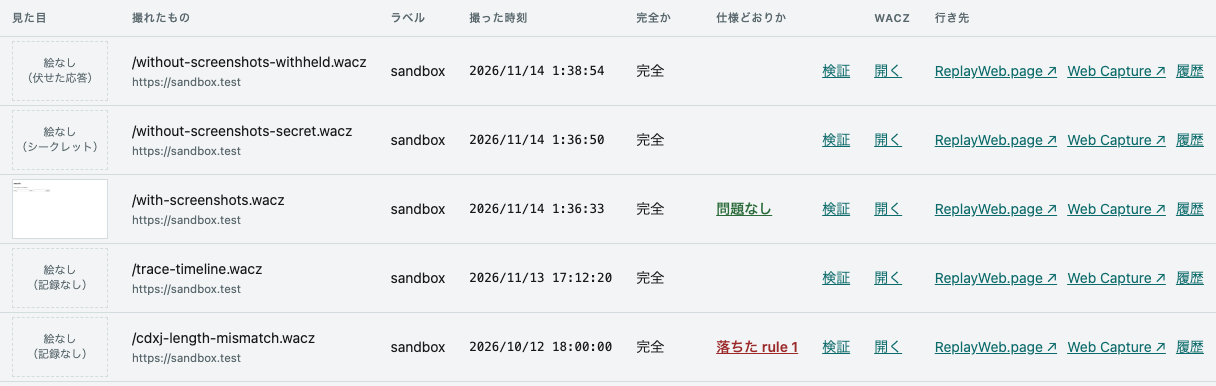
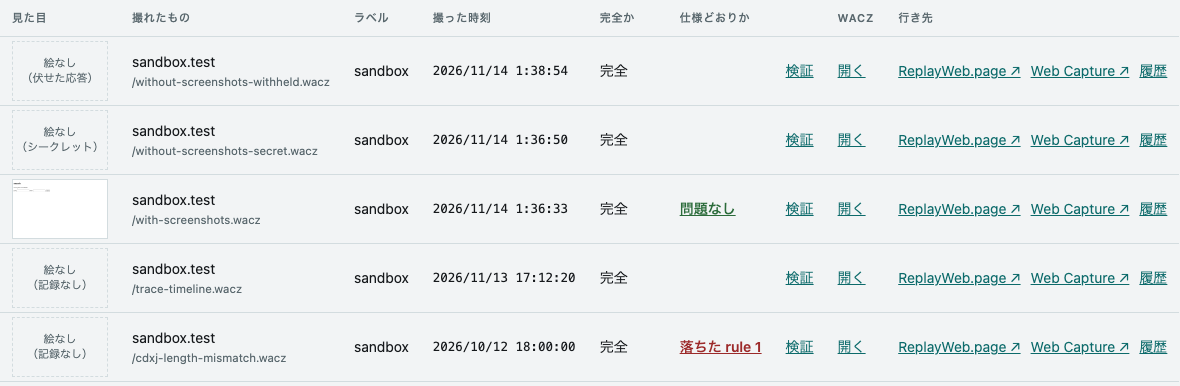
feat: 一覧の URL は上にサイト（ホスト）、下に path を出す（t-ub5w） (#136)
* feat: 一覧の URL は上にサイト（ホスト）、下に path を出す（t-ub5w）

クロールの一覧の「起点」とアーカイブの一覧の「撮れたもの」は、上の行に path、下の行に origin を
小さく薄く出していて、どのサイトのクロールかが目に入りにくかった。

- 一覧の 2 行の上下を入れ替える。上の行はホスト（port が在れば port も）、下の行は path と query を
  小さく薄く（public/format.js の siteLinesOf）。scheme は出さない（全文は今までどおり title）。
  path が / だけなら、ホストだけの 1 行。ホストの字は直さない。
- クロールの開いた行の「ページ」の表は、path が上のまま（ページはたいてい起点と同じサイト）。
  urlBox が分け方を受け取り、既定は今までの urlLinesOf。
- CAPTURE-404 の「同じ長い origin でも path が読める」は崩さない。path は下の行に 1 行を持つ。
- docs の「画面」（英日）の文と、絵 2 枚（crawls・archives）を撮り直した。

Claude-Session: https://claude.ai/code/session_01TRqfaPSPMpBYHNLkiwEhaY

* fix: 開いた行のページの表の説明を、一覧と上下が逆の 2 行に合わせ、userinfo の例を試験に足す（t-ub5w）

Claude-Session: https://claude.ai/code/session_01TRqfaPSPMpBYHNLkiwEhaY

* docs: 絵の元の控えを撮り直す（コメントの直しで source が変わった。絵の画素は同じ）（t-ub5w）

Claude-Session: https://claude.ai/code/session_01TRqfaPSPMpBYHNLkiwEhaY

---------

diff --git a/public/app.js b/public/app.js
@@ -10,7 +10,7 @@
  * `outerHTML` のようなほかの API は見ない。
  */
 import { applyI18n, dateTime, errorText, key, langOf, phraseText, refusalTexts, switchLang, t, timeOfDay, tNodes } from "/i18n.js";
-import { count, forgetMissing, judgedUnder, linksNoteOf, linksOf, resendOf, secretArchiveOf, severityKind, stateOf, statsOf, took, urlLinesOf } from "/format.js";
+import { count, forgetMissing, judgedUnder, linksNoteOf, linksOf, resendOf, secretArchiveOf, severityKind, siteLinesOf, stateOf, statsOf, took, urlLinesOf } from "/format.js";
 import {
   DEFAULT_PROFILE,
   PROFILES,
@@ -338,11 +338,12 @@ const tag = (name, text, className) => {
 const cell = (text, className) => tag("td", text, className);
 
 /**
- * URL の 2 行の箱（CAPTURE-404）。上の行に path と query、下の行に origin を小さく（`urlLinesOf`）。2 本目からは出さず、
- * 上の行の後ろに数だけを出す。一覧の URL の欄（`urlCell`）と、開いた行のページの表の URL の欄が使う。
+ * URL の 2 行の箱（CAPTURE-404）。上の行を普通の字、下の行を小さく。分け方は `linesOf` で、既定は上に path と query・
+ * 下に origin（`urlLinesOf`。開いた行のページの表 —— ページはたいてい起点と同じサイト）。一覧の URL の欄（`urlCell`）は、
+ * 上にホスト・下に path（`siteLinesOf`。t-ub5w）。2 本目からは出さず、上の行の後ろに数だけを出す。
  */
-const urlBox = (urls) => {
-  const lines = urlLinesOf(urls[0] ?? "");
+const urlBox = (urls, linesOf = urlLinesOf) => {
+  const lines = linesOf(urls[0] ?? "");
   const box = tag("span", "", "url-box");
   const first = tag("span", "", "url-line");
   first.append(tag("span", lines.top, "url-top"));
@@ -352,10 +353,10 @@ const urlBox = (urls) => {
   return box;
 };
 
-/** URL の欄（一覧の 2 行）。全文は title に（`urls` が 2 本以上なら全部を行で）。 */
+/** URL の欄（一覧の 2 行。上がホスト、下が path）。全文は title に（`urls` が 2 本以上なら全部を行で）。 */
 const urlCell = (urls, className) => {
   const td = tag("td", "", className === undefined ? "url" : `url ${className}`);
-  td.append(urlBox(urls));
+  td.append(urlBox(urls, siteLinesOf));
   td.title = urls.join("\n");
   return td;
 };
@@ -918,7 +919,8 @@ const restoreScroll = () => {
  * （本文の幅）に収まらなかった（2026-11-05 に測った）。同じ理由で、途中の版でも字は増やさず、色と説明だけを付ける。
  *
  * 撮った時の絵（capture-ledger の行の `screenshot`。CAPTURE-432）も列を足さず、URL の欄の中の左に出す。URL はその右で、
- * 一覧と同じ 2 行にする（1 行のままでは、絵の分だけ表が docs の絵の幅を超えた）。
+ * 2 行にする（1 行のままでは、絵の分だけ表が docs の絵の幅を超えた）。上下は一覧と逆で、上が path と query、下が origin
+ * （ページはたいてい起点と同じサイト。t-ub5w）。
  */
 const pagesOf = (one) => {
   const box = document.createElement("div");
@@ -950,7 +952,8 @@ const pagesOf = (one) => {
   table.append(head);
   for (const { page, log, look } of rows) {
     const row = document.createElement("tr");
-    // URL は一覧と同じ 2 行（上が path と query、下が origin）。1 行のままでは表が docs の絵の幅（632px）を超える
+    // URL は 2 行で、上下は一覧と逆（上が path と query、下が origin。ページはたいてい起点と同じサイト）。1 行のままでは
+    // 表が docs の絵の幅（632px）を超える
     const url = tag("td", "", "page-url");
     url.title = String(page.url);
     const line = tag("span", "", "page-line");

diff --git a/public/format.js b/public/format.js
@@ -188,3 +188,19 @@ export const urlLinesOf = (text) => {
   if (shape === null || shape[2] === "" || shape[2] === "/") return { top: text, bottom: undefined };
   return { top: shape[2], bottom: shape[1] };
 };
+
+/**
+ * URL を、一覧（クロールの起点・アーカイブの撮れたもの）の欄の 2 行に分ける（t-ub5w）。上の行（`top`）はどのサイトかを
+ * 言うホスト（port が在れば port も）、下の行（`bottom`）は path と query。`urlLinesOf` の上下を入れ替え、**scheme を
+ * 出さない** —— 毎行同じ `https://` が、目立たせたいホストを後ろへ押すため（全文は欄の title）。ホストの字は直さない。
+ *
+ * CAPTURE-404 で path を上にしたのは、同じ長い origin の起点で path が 0 字になったから。ここでも path は下の行に
+ * 1 行を持つので、0 字には戻らない。path が無いか `/` だけの URL は、ホストだけの 1 行。URL の形でない字と、
+ * ホストの無い URL（`file:///…`）は、そのまま上の行。
+ */
+export const siteLinesOf = (text) => {
+  const shape = URL_SHAPE.exec(text);
+  const host = shape === null ? "" : shape[1].slice(shape[1].indexOf("://") + 3);
+  if (host === "") return { top: text, bottom: undefined };
+  return { top: host, bottom: shape[2] === "" || shape[2] === "/" ? undefined : shape[2] };
+};

diff --git a/public/app.css b/public/app.css
@@ -172,7 +172,8 @@ td.wide {
 }
 
 /*
- * URL の欄（一覧の 2 行。CAPTURE-404）。上の行は path と query、下の行は origin を小さく薄く。幅の上限は td でなく
+ * URL の 2 行の箱（CAPTURE-404）。上の行は普通の字、下の行は小さく薄く。一覧（起点・撮れたもの）は上がホスト・下が
+ * path と query、開いた行のページの表は上が path と query・下が origin（t-ub5w。app.js の urlBox）。幅の上限は td でなく
  * 中の箱に付ける（表のセルの max-width は CSS 2.1 で未定義）。入らない字は、行ごとに末尾を省く（全文は td の title）
  */
 .url-box {

diff --git a/docs-site/src/content/docs/screens.md b/docs-site/src/content/docs/screens.md
@@ -63,11 +63,11 @@ the crawl's bundle.
   rows on screen come from two or more origins, and they narrow only the one page on screen. `cli`
   holds both the rows a person started with the local `idp:token` and the rows an AI agent started as
   the dedicated user `ai-cli`; tell them apart by name.
-- **The seed URL takes two lines.** The top line is the path and query, and the bottom line, in
-  smaller type, is the origin (scheme, host and port); the two together are the URL. A seed whose
-  path is only `/` (such as `https://laws.e-gov.go.jp/`) is told apart by its host, so it shows the
-  whole URL on one line. A line that does not fit ends in "…"; hover over the cell to read the whole
-  URL. A crawl with more than one seed shows the first one followed by how many more there are
+- **The seed URL takes two lines, the site first.** The top line is the host (with the port, if
+  any), so you can tell at a glance which site a crawl is for; the bottom line, in smaller type, is
+  the path and query. The scheme (`https://`) is not shown. A seed whose path is only `/` (such as
+  `https://laws.e-gov.go.jp/`) shows just the host on one line. A line that does not fit ends in
+  "…"; hover over the cell to read the whole URL. A crawl with more than one seed shows the first one followed by how many more there are
   (such as `+5`), and hovering lists every seed, one per line.
 - **Pages captured and links are separate columns.** The links column (`pagesDiscovered`) is the
   number of distinct URLs the rules let through among the links on the captured pages (seeds are
@@ -204,8 +204,9 @@ the crawl's bundle.
   **Read on** when there is more. A ledger without the pages route gets a one-line note.
 - **The URL cell starts with the picture as captured.** It is the same picture or dashed box as
   **Look** (見た目) in the [archives view](#archives), from the `screenshot` of the ledger's page row.
-  The URL follows on the right in the same two lines as a crawl's seed (the path and query on top,
-  the origin below), and the top line wraps instead of being cut. Hover over the cell to read the
+  The URL follows on the right in two lines, but the other way round from a crawl's seed: the path
+  and query on top, the origin below, since a crawl's pages are mostly on the seed's site. The top
+  line wraps instead of being cut. Hover over the cell to read the
   whole URL. A page without a WACZ (not captured yet, failed, or skipped) gets no box, only the
   space for one. When the ledger does not return the field (before v0.107.0), there is no space
   for the picture at all. The picture sits inside the URL cell rather than in a column of its own:
@@ -843,7 +844,7 @@ The WACZ files you can see, newest capture first.
   When the ledger does not return the field (before v0.107.0), the column is empty.
 
 - **The URL under Captured (撮れたもの) takes the same two lines as a crawl's seed.** The top line is
-  the path and query, the bottom line the origin. Hover over the cell to read the whole URL.
+  the host, the bottom line the path and query. Hover over the cell to read the whole URL.
 - **A `—` under Complete? (完全か) means "unknown".** The ledger's `waczComplete` is null for
   that row, which is not the same as **Incomplete** (欠けあり).
 - **Validate (検証) enters the validation view** (`#check/<archiveId>`), which validates once.
